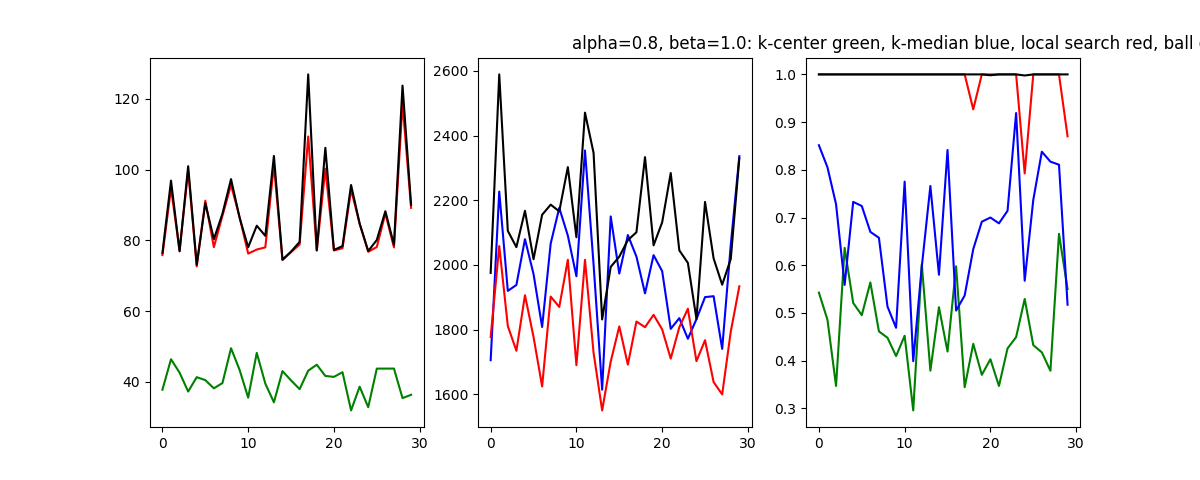
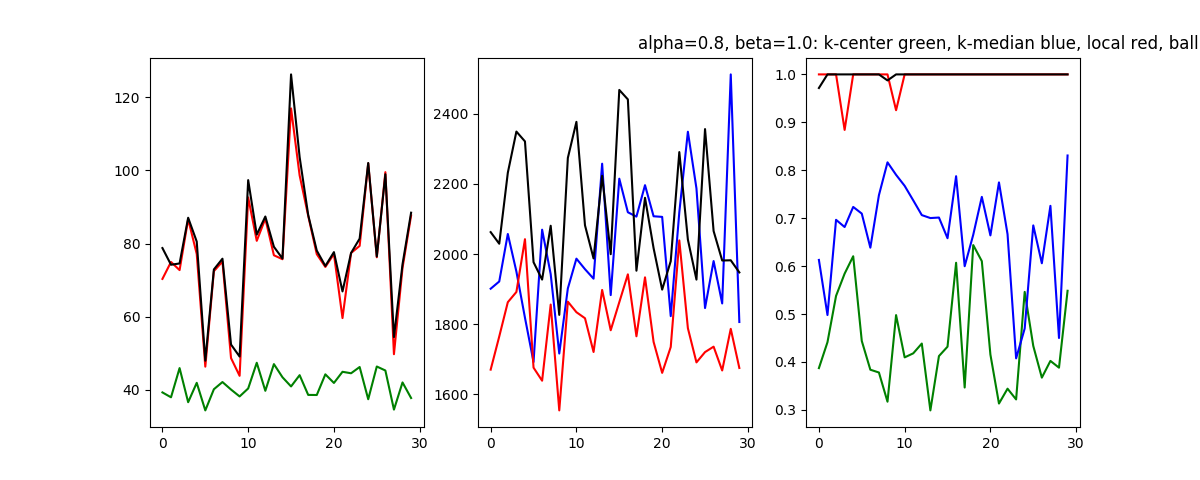
Fix bug with calc_beta using # of centers obtained as k

diff --git a/utils.py b/utils.py
@@ -1,7 +1,7 @@
 from optimal_solution import dis
 import math
 
-def calc_beta(client_list, center_list, alpha=1):
+def calc_beta(client_list, center_list, k, alpha=1):
     """
     Calculate the smallest beta value in the solution (figuratively speaking, the maximum distance any
     blocking coalition is allowed to deviate).
@@ -24,7 +24,7 @@ def calc_beta(client_list, center_list, alpha=1):
         client_list.
     """
     num = len(client_list)
-    k = len(center_list)
+    #k = len(center_list)
 
     # Compute current assignments (nearest center for each client)
     assignment = dict()
@@ -54,6 +54,8 @@ def calc_beta(client_list, center_list, alpha=1):
         beta = beta_list[int(math.ceil(alpha * num / k)) - 1]
         min_beta = beta if beta < min_beta else min_beta
 
+    if min_beta == 10000000000000000:
+        min_beta = 3.0
     return min_beta
 
 

diff --git a/ball_growing.py b/ball_growing.py
@@ -165,7 +165,8 @@ def ball_growing(data_list, k, alpha = 1):
         #print(', '.join(str(x) for x in pq))
 
     facility_indexes = list(open_facilities)
+    print("Ball growing algorithm picked %d facilities when k=%d" % (len(facility_indexes), k))
     kcenterobj = calc_kcenter_objective(data_list, facility_indexes, k)
     kmedianobj = cal_dis(data_list, facility_indexes)
     print("For %d median objective, ball growing value is %d" % (k, kmedianobj))
-    return kcenterobj, kmedianobj, calc_beta(data_list, facility_indexes, alpha)
+    return kcenterobj, kmedianobj, calc_beta(data_list, facility_indexes, k, alpha)

diff --git a/main.py b/main.py
@@ -62,7 +62,7 @@ if __name__ == '__main__':
             ax3.plot(x, control_kmedian_betas, color = 'blue')
             ax3.plot(x, exp_betas, color ='red')
             ax3.plot(x, bg_betas, color ='black')
-            plt.title('alpha=%.1f, beta=%.1f: k-center green, k-median blue, local search red, ball growing black' % (alpha, beta))
+            plt.title('alpha=%.1f, beta=%.1f: k-center green, k-median blue, local red, ball black' % (alpha, beta))
             plt.savefig('Ball growing, k=%d, alpha = %.1f, beta =%.1f.png' % (k, alpha, beta))
 
             """

diff --git a/local_search_capture.py b/local_search_capture.py
@@ -50,7 +50,7 @@ def local_search_capture(data_list, k, alpha = 1, beta = 1, max_iter = 100):
     kcenterobj = calc_kcenter_objective(data_list, temp, k)
     kmedianobj = cal_dis(data_list, temp)
     print("For %d median objective, local search value is %d" % (k, kmedianobj))
-    return kcenterobj, kmedianobj, calc_beta(data_list, temp, alpha)
+    return kcenterobj, kmedianobj, calc_beta(data_list, temp, k, alpha)
 
 def calc_kcenter_objective(data_list, cur_sol, k):
     assignment = dict()

diff --git a/kmedian.py b/kmedian.py
@@ -28,7 +28,7 @@ def kmedian(data_list, k, alpha = 1, max_iter = 100, groups_list = None):
     print("For %d median objective, 5-approx value is %d" % (k , local_move_acc))
     if groups_list:
         return local_move_acc, calc_beta_groups(data_list, groups_list, cur_state, alpha)
-    return local_move_acc, calc_beta(data_list, cur_state, alpha)
+    return local_move_acc, calc_beta(data_list, cur_state, k, alpha)
 
 def cal_dis(client_list, center_list):
     assignment = dict()

diff --git a/kcenter.py b/kcenter.py
@@ -35,5 +35,5 @@ def kcenter(data_list, k, alpha = 1, groups_list = None):
     print("For %d center objective, 2-approx value is %d" % (k , ans))
     if groups_list:
         return ans, calc_beta_groups(data_list, groups_list, list(cur_sol), alpha)
-    return ans, calc_beta(data_list, list(cur_sol), alpha)
+    return ans, calc_beta(data_list, list(cur_sol), k, alpha)
 
